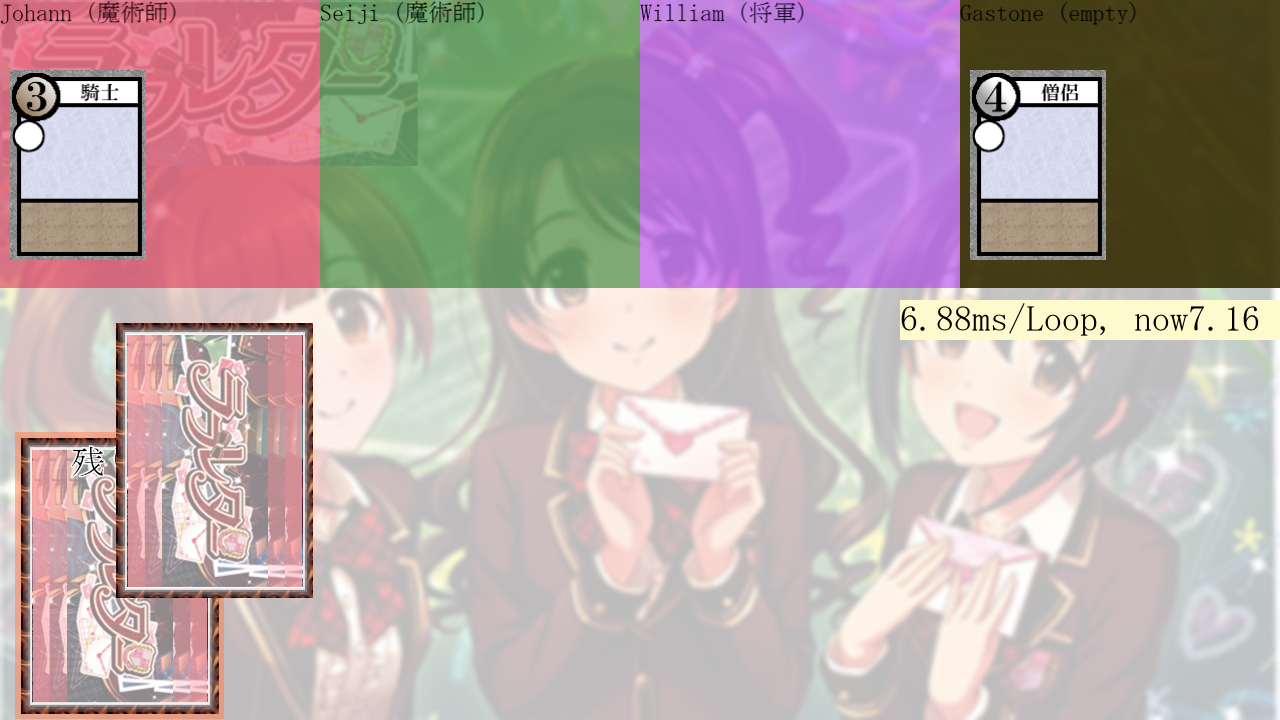
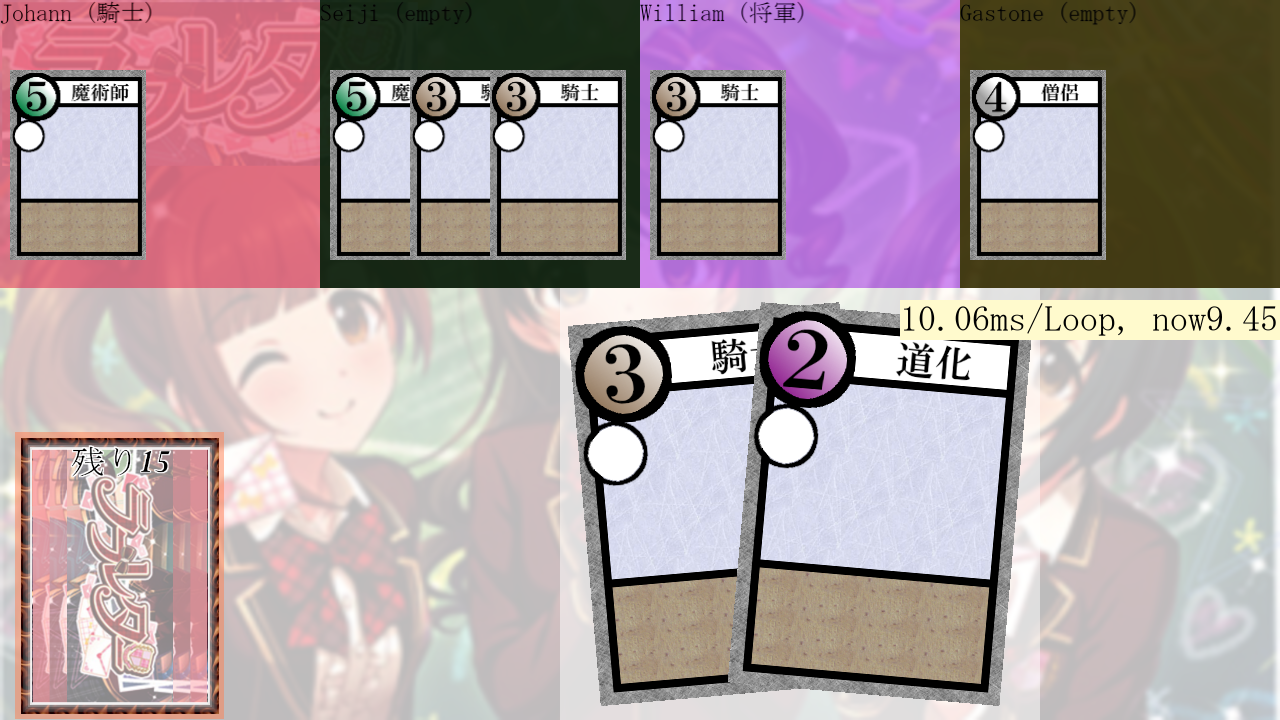
L165:トランジション処理関連を簡潔に表記すべくProgressHelperでメソッド作成

diff --git a/ll/view/duel/duel_kard_open_square.py b/ll/view/duel/duel_kard_open_square.py
@@ -1,47 +1,18 @@
 from pygame import Surface, Vector2 as V2, transform, Rect
 
-# from any.func import ratio_rect, img_zoom, dest_rect_center, make_progress_funcs
 from any.func import ratio_rect, img_zoom, dest_rect_center
 from any.pictures import IMG_BACK
-from any.timer_functions import make_ratio_func
 from model.kard import Kard
-from model.ui_element import UIElement
+from view.progress_helper import ProgressHelper
 
 _RATIO = V2(340, 475)
-
-from typing import Callable
-def make_progress_funcs(ratio: Callable[[], float]=lambda: 0.0) -> tuple[
-    Callable[[], bool], Callable[[], None], UIElement,
-    Callable[[], UIElement | None], Callable[[], None]
-]:
-    '''
-    in_progress関数, _complete命令, ui_element属性, get_hover関数, elapse命令の
-    メソッド五種を一括して作成します。
-    不要なメソッドの項目には「_」を指定してください。戻り値を5つ全て取らないとエラーです。
-    '''
-    in_drawing_progress = True
-    def in_progress() -> bool:
-        nonlocal in_drawing_progress
-        return in_drawing_progress
-    def _complete() -> None:
-        nonlocal in_drawing_progress
-        in_drawing_progress = False
-    ui_element = UIElement(mousedown=_complete)
-    def get_hover() -> UIElement | None:
-        return ui_element
-    def elapse() -> None:
-        if ratio() >= 1.0:
-            _complete()
-    return in_progress, _complete, ui_element, get_hover, elapse
-
 
 from ptc.transition import Transition
 class DuelKardOpenSquare():
     def __init__(
             self, rect: Rect, kard: Kard, canvas: Surface, seconds: float=0.0
         ) -> None:
-        self.in_progress, self._complete, self.get_hover, _, self.elapse = make_progress_funcs()
-        self._ratio = make_ratio_func(seconds=seconds) if seconds else lambda: 0.0
+        self._ratio, self.in_progress, _, _, self.get_hover, self.elapse = ProgressHelper(seconds=seconds).provide_progress_funcs()
         self.rect = ratio_rect(rect=rect, ratio=_RATIO)
         self.kard = kard
         self.canvas = canvas

diff --git a/ll/view/duel/duel_open_transition.py b/ll/view/duel/duel_open_transition.py
@@ -1,41 +1,32 @@
 from pygame import Surface, Vector2 as V2, Rect
 
-from any.func import ratio_rect, make_progress_funcs
-from any.timer_functions import make_ratio_func
+from any.func import ratio_rect
 from model.player import Player
-from model.ui_element import UIElement
 from view.duel.duel_icon_square import DuelIconSquare
 from view.duel.duel_kard_open_square import DuelKardOpenSquare
+from view.progress_helper import ProgressHelper
 
 _RATIO = V2(880, 475)
-_SECONDS = 0.5
+_SECONDS = 0.5*5
 
 from ptc.transition import Transition
 class DuelOpenTransition():
     def __init__(self, rect: Rect, p1: Player, p2: Player, canvas: Surface) -> None:
-        self.in_progress, self._complete = make_progress_funcs()
-        self._ratio = make_ratio_func(seconds=_SECONDS)
+        self._ratio, self.in_progress, _, _, self.get_hover, self.elapse\
+            = ProgressHelper(seconds=_SECONDS).provide_progress_funcs()
         self.rect = ratio_rect(rect=rect, ratio=_RATIO)
         self.canvas = canvas
         self.diq = DuelIconSquare(rect=Rect(300, 95, 280, 280), canvas=canvas, seconds=0.0)
         self.left_dkoq, self.right_dkoq = self.dkoqs(p1=p1, p2=p2)
         self.offset = V2(self.rect.topleft)
         self.squares: list[DuelIconSquare | DuelKardOpenSquare] = [self.diq, self.left_dkoq, self.right_dkoq]
-        self.ui_element = UIElement(mousedown=self._complete)
 
     def rearrange(self) -> None:
         ...
 
-    def get_hover(self) -> UIElement | None:
-        return self.ui_element
-
     def draw(self) -> None:
         for square in self.squares:
             square.offset_draw(offset=self.offset)
-
-    def elapse(self) -> None:
-        if self._ratio() >= 1:
-            self._complete()
 
     def dkoqs(self, p1: Player, p2: Player) -> tuple[DuelKardOpenSquare, DuelKardOpenSquare]:
         li: list[tuple[tuple[int, int], Player, float]] = [

diff --git a/ll/view/progress_helper.py b/ll/view/progress_helper.py
@@ -1,0 +1,38 @@
+from typing import Callable
+
+from any.timer_functions import make_ratio_func
+from model.ui_element import UIElement
+
+class ProgressHelper:
+    '''
+    in_progressを中心としたメソッド群を提供します。
+
+    seconds引数に0.0を入れた場合、ratio_funcは常に0.0を返します。
+    '''
+    def __init__(self, seconds: float) -> None:
+        self.ratio_func = make_ratio_func(seconds=seconds) if seconds else lambda : 0.0
+        self.ui_element = UIElement(mousedown=self.complete)
+        self._in_progress = True
+
+    def in_progress(self) -> bool:
+        return (self.ratio_func() < 1) and self._in_progress
+
+    def complete(self) -> None:
+        self._in_progress = False
+
+    def get_hover(self) -> UIElement | None:
+        return self.ui_element
+
+    def elapse(self) -> None:
+        ...
+
+    def provide_progress_funcs(self) -> tuple[
+        Callable[[], float], Callable[[], bool], Callable[[], None],
+        UIElement, Callable[[], UIElement | None], Callable[[], None]
+    ]:
+        '''
+        ratio関数, in_progress関数, complete命令, ui_element属性, get_hover関数, elapse命令の
+        メソッド六種を一括して供給します。
+        不要なメソッドの項目には「_」を指定してください。戻り値を6つ全て取らないとエラーです。
+        '''
+        return self.ratio_func, self.in_progress, self.complete, self.ui_element, self.get_hover, self.elapse

diff --git a/ll/model/deck.py b/ll/model/deck.py
@@ -51,10 +51,13 @@ def make_deck() -> list[Kard]:
     # deck.insert(4, _kards[8])
 
     # 「騎士」
-    deck.insert(0, _kards[3])
+    deck.insert(0, _kards[5])
     deck.insert(1, _kards[5])
     deck.insert(2, _kards[6])
     deck.insert(3, _kards[4])
-    deck.insert(4, _kards[5])
+    deck.insert(4, _kards[3])
+    deck.insert(5, _kards[3])
+    deck.insert(6, _kards[3])
+    deck.insert(7, _kards[3])
 
     return deck
